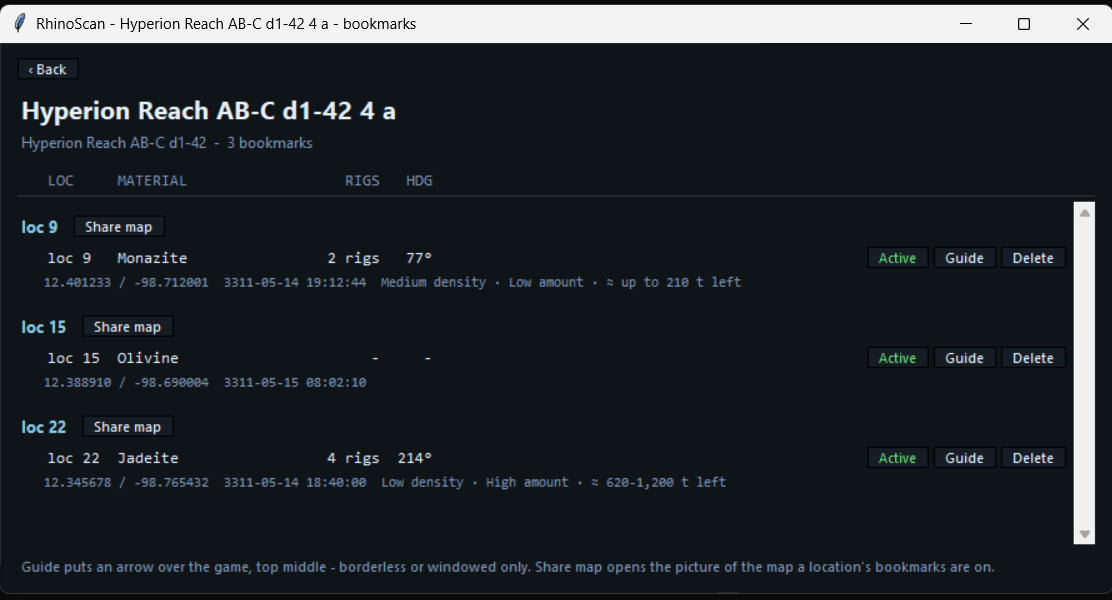
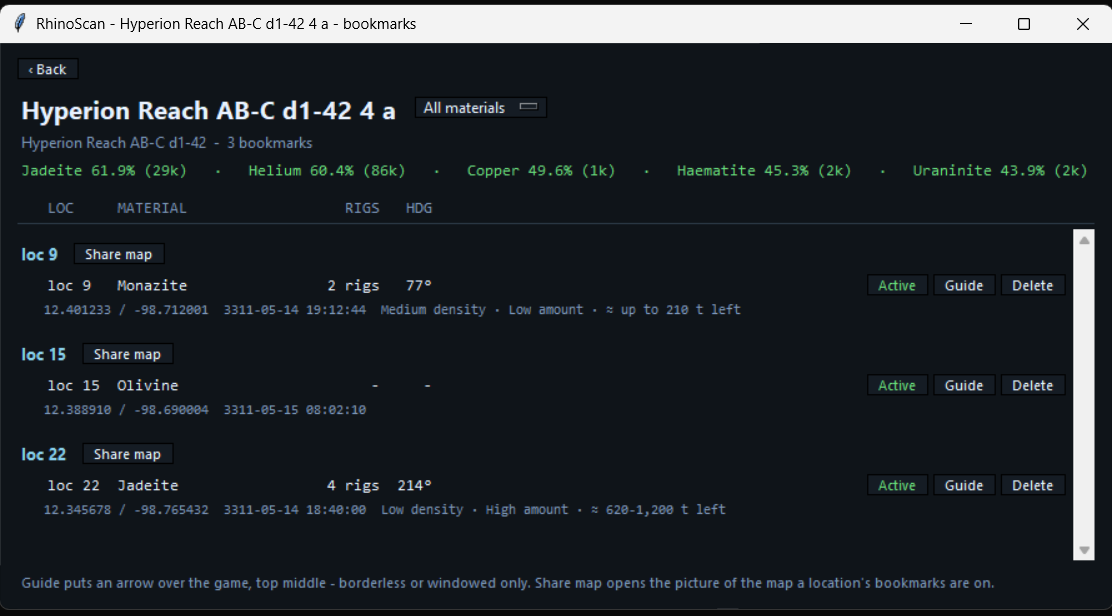
RhinoScan opens on the body under the ship; top 5 materials and a material filter. 4.1.9
Status.json latitude/longitude name the body in SRV, landed or orbital cruise; the window opens on its bookmarks, empty or not. Under the count: the ground's five likeliest materials with rate and median price. Beside the name: a filter over the materials bookmarked there. Back returns to the list and a material change keeps it there. README and screenshots updated.

Claude-Session: https://claude.ai/code/session_01LfysB5h4sj8dJSz119tMS1

diff --git a/rs_ui/scan.py b/rs_ui/scan.py
@@ -45,13 +45,17 @@ WARN = palette.WARN
 _window = None           # only ever one, so the button cannot bury the panel
 _scan = None             # what show() was last given, so Back can rebuild
 _body = None             # the bookmark view's own arguments, for the same reason
+_here = None             # the body Status.json put us on or over when the window opened
+_filter = {}             # body name -> the material its bookmarks are filtered to
+ALL = "All materials"
+TOP_HERE = 5             # materials listed under a body's bookmark count
 
 
 def is_open():
     return _window is not None and bool(_window.winfo_exists())
 
 
-def show(parent, register, sheet, focus=None, variable=None, materials=()):
+def show(parent, register, sheet, focus=None, variable=None, materials=(), here=None):
     """Open the window, or raise the one already open.
 
     `focus` is one material. Given one, only the grounds that have ever
@@ -59,13 +63,17 @@ def show(parent, register, sheet, focus=None, variable=None, materials=()):
     - the question has changed from "what is here" to "where is the jadeite",
     and a ground that answers it at 4% still answers it.
 
+    `here` is the body name when Status.json has us on or over one - in the
+    SRV, landed, or in orbital cruise. Then the window opens on that body's
+    bookmarks, whether it has any yet or not; Back goes to the body list.
+
     `variable` is the panel's own material StringVar, not a copy. The picker
     under the system name writes to it, so choosing here is the same act as
     choosing down in the panel and the two can never disagree. Watching that
     variable is the panel's job - one watcher, added once, rather than another
     one on every open.
     """
-    global _window, _scan
+    global _window, _scan, _here
 
     if _window is not None and _window.winfo_exists():
         _window.destroy()
@@ -78,8 +86,21 @@ def show(parent, register, sheet, focus=None, variable=None, materials=()):
     # behind it is the one thing the stack cannot be asked about afterwards.
     _window.bind("<Destroy>", _log_destroy, add="+")
     _scan = (register, sheet, focus, variable, materials)
-    _scan_view(_window)
+    _here = here
+    if here and register.system:
+        _bookmarks_view(_window, register.system, here,
+                        cards.by_body(register.system).get(here, []))
+    else:
+        _scan_view(_window)
     return _window
+
+
+def on_body_here():
+    """Whether the open window is showing the bookmarks of the body it opened
+    on. The panel reopens the window when its material changes, and a window
+    the commander has taken Back to the body list must come back as the list."""
+    return (_window is not None and _window.winfo_exists()
+            and _body is not None and _body[2] == _here)
 
 
 def _log_destroy(event):
@@ -99,8 +120,10 @@ def _scan_view(window):
     list kept alive behind the bookmarks is a list that missed every scan that
     landed while it was behind them.
     """
+    global _body
     register, sheet, focus, variable, materials = _scan
     logger.debug("scan: building the body list")
+    _body = None            # the overlay's refresh must not draw bookmarks over the list
     _clear(window)
     window.title(f"RhinoScan - {register.system or 'unknown system'}"
                  + (f" - {focus}" if focus else ""))
@@ -528,16 +551,35 @@ def _bookmarks_view(window, system, body, records):
     back.pack(fill="x", pady=(0, 6))
     _button(back, "‹ Back", lambda: _scan_view(window)).pack(side="left")
 
-    tk.Label(outer, text=body, bg=BG, fg=FG, anchor="w",
-             font=("Segoe UI", 15, "bold")).pack(fill="x")
+    # The body, and beside it the material its bookmarks are narrowed to. Only
+    # materials that have a bookmark here are offered: a filter that can come
+    # up empty is a filter that looks broken.
+    title = tk.Frame(outer, bg=BG)
+    title.pack(fill="x")
+    tk.Label(title, text=body, bg=BG, fg=FG, anchor="w",
+             font=("Segoe UI", 15, "bold")).pack(side="left")
+    marked = sorted({r.get("commodity") for r in records if r.get("commodity")})
+    chosen = _filter.get(body, ALL)
+    if chosen != ALL and chosen not in marked:
+        chosen = _filter[body] = ALL
+    if len(marked) > 1:
+        _material_filter(title, window, system, body, records, marked, chosen)
+    shown = [r for r in records if chosen == ALL or r.get("commodity") == chosen]
+
     count = len(records)
-    tk.Label(outer, text=f"{system or ''}  -  {count} bookmark{'' if count == 1 else 's'}",
-             bg=BG, fg=DIM, anchor="w", font=("Segoe UI", 9)).pack(fill="x", pady=(0, 10))
+    counted = (f"{len(shown)} of {count} bookmarks" if len(shown) != count
+               else f"{count} bookmark{'' if count == 1 else 's'}")
+    tk.Label(outer, text=f"{system or ''}  -  {counted}",
+             bg=BG, fg=DIM, anchor="w", font=("Segoe UI", 9)).pack(fill="x")
+    _top_here(outer, body)
 
     _column_header(outer)
     listing, _ = _scrollable(outer)
+    if not records:
+        tk.Label(listing, text="   no bookmarks on this body yet", bg=BG, fg=DIM, anchor="w",
+                 font=("Segoe UI", 9)).pack(fill="x", pady=(6, 0))
     maps = coverstore.maps(body)
-    for index, group in _by_location(records):
+    for index, group in _by_location(shown):
         _location_header(listing, body, index, group, maps)
         for record in cards.ordered(group):
             _bookmark_row(listing, record)
@@ -550,6 +592,61 @@ def _bookmarks_view(window, system, body, records):
     note.pack(side="top", fill="x", pady=(8, 0))
     _Wrapper(window, margin=40)(note)
     _fit(window, listing, extra=BUTTONS)
+
+
+def _material_filter(parent, window, system, body, records, marked, chosen):
+    """The dropdown beside the body name: all bookmarks, or one material's."""
+    variable = tk.StringVar(value=chosen)
+
+    def pick(value):
+        _filter[body] = value
+        # After the menu has closed: rebuilding the window destroys the menu
+        # that is still handing out this call.
+        window.after_idle(lambda: _bookmarks_view(window, system, body, records))
+
+    menu = tk.OptionMenu(parent, variable, ALL, *marked, command=pick)
+    menu.config(relief="solid", borderwidth=1, highlightthickness=0,
+                bg=PANEL, fg=FG, activebackground=PANEL, activeforeground=ACCENT,
+                anchor="w", padx=6, pady=0, font=("Segoe UI", 9))
+    menu["menu"].config(bg=PANEL, fg=FG, activebackground=ACCENT, activeforeground=BG,
+                        borderwidth=1, activeborderwidth=0, tearoff=False,
+                        font=("Segoe UI", 9))
+    menu.pack(side="left", padx=(12, 0))
+
+
+def _top_here(parent, body):
+    """The five likeliest materials on this body's ground, each with its median
+    price, under the bookmark count. From the mining sheet, so a body the
+    journal has not described yet has no ground and gets a line saying so."""
+    register, sheet = (_scan[0], _scan[1]) if _scan else (None, None)
+    ground = None
+    if register is not None:
+        for known in register.bodies():
+            if known.get("name") == body:
+                ground = known.get("ground")
+                break
+    row = tk.Frame(parent, bg=BG)
+    row.pack(fill="x", pady=(2, 10))
+    if ground is None or sheet is None:
+        tk.Label(row, text="no body type yet - FSS or scan the body for its likely materials",
+                 bg=BG, fg=DIM, anchor="w", font=("Segoe UI", 9)).pack(side="left")
+        return
+    rows = sheet.materials(ground, limit=TOP_HERE)
+    if not rows:
+        tk.Label(row, text=f"{grounds.label(ground)}: nothing measured on this ground yet",
+                 bg=BG, fg=WARN, anchor="w", font=("Segoe UI", 9)).pack(side="left")
+        return
+    text = "   ·   ".join(f"{r['material']} {r['pct']}% {_price(r.get('median'))}" for r in rows)
+    tk.Label(row, text=text, bg=BG, fg=GOOD, anchor="w", font=("Consolas", 9)).pack(side="left")
+
+
+def _price(credits):
+    """208k, 1.2M, or 'no price' - the median a market pays per tonne."""
+    if not credits:
+        return "(no price)"
+    if credits >= 1_000_000:
+        return f"({credits / 1_000_000:.1f}M)"
+    return f"({round(credits / 1000):,}k)"
 
 
 def _by_location(records):
@@ -703,7 +800,9 @@ def _reload():
         return
     window, system, body, _records = _body
     records = cards.by_body(system).get(body, [])
-    if records:
+    # The body you are on stays open with nothing on it: its likely materials
+    # are still worth reading.
+    if records or body == _here:
         _bookmarks_view(window, system, body, records)
     else:
         _scan_view(window)

diff --git a/rs_ui/main.py b/rs_ui/main.py
@@ -224,8 +224,9 @@ def open_cards():
         _set_status(f"cannot open {spotcard.CARDS_ROOT}: {err}")
 
 
-def open_scan():
-    """The RhinoScan window for the system the journal last named.
+def open_scan(at_body=True):
+    """The RhinoScan window for the system the journal last named, opened on
+    the bookmarks of the body under the ship when there is one and `at_body`.
 
     The window gets the panel's own material variable, not a copy of its
     value: the picker it draws under the system name writes straight back
@@ -237,7 +238,8 @@ def open_scan():
     try:
         scan.show(_frame.winfo_toplevel(), _register, _sheet, _focus(),
                   variable=_material,
-                  materials=(ALL_MATERIALS,) + tuple(spotmark.MATERIALS))
+                  materials=(ALL_MATERIALS,) + tuple(spotmark.MATERIALS),
+                  here=spotmark.body_here(spotmark.read_status()) if at_body else None)
     except Exception as err:                       # a broken window must not
         logger.exception("RhinoScan failed")       # take the card flow with it
         _set_status(f"no scan window: {err}")
@@ -258,7 +260,8 @@ def _on_material_changed(*_):
     logger.debug(f"material changed to {_material.get()!r}, "
                  f"scan open={open_now} - {'reopening' if open_now else 'nothing to do'}")
     if open_now:
-        _frame.after_idle(open_scan)
+        at_body = scan.on_body_here()
+        _frame.after_idle(lambda: open_scan(at_body))
 
 
 # How often Status.json is read to see whether Bookmark has anything to mark.

diff --git a/rs_core/spotmark.py b/rs_core/spotmark.py
@@ -89,6 +89,18 @@ def mark(status, system=None, commander=None, marked_at=None):
     }
 
 
+def body_here(status):
+    """The body Status.json has us on or over, or None.
+
+    Latitude and longitude are only in Status.json near a body - orbital
+    cruise, glide, landed, in the SRV - so their presence is the test, and the
+    body is whatever it names. Deep space and supercruise give None.
+    """
+    if status.get("Latitude") is None or status.get("Longitude") is None:
+        return None
+    return status.get("BodyName") or None
+
+
 def on_surface(spot):
     """A mark without coordinates is not a place anyone can fly back to."""
     return spot.get("latitude") is not None and spot.get("longitude") is not None

diff --git a/rs_tests/test_spotmark.py b/rs_tests/test_spotmark.py
@@ -134,3 +134,15 @@ class TestOnGround:
 
     def test_an_empty_status(self):
         assert spotmark.on_ground({}) is False
+
+
+class TestBodyHere:
+    def test_over_a_body(self):
+        status = {"BodyName": "Andel 1 a", "Latitude": 12.3, "Longitude": -45.6}
+        assert spotmark.body_here(status) == "Andel 1 a"
+
+    def test_supercruise_names_no_body(self):
+        assert spotmark.body_here({"BodyName": "Andel 1 a"}) is None
+
+    def test_empty_status(self):
+        assert spotmark.body_here({}) is None

diff --git a/rs_core/update.py b/rs_core/update.py
@@ -27,7 +27,7 @@ try:
 except ImportError:         # a bare interpreter without it
     requests = None
 
-VERSION = "4.1.8"
+VERSION = "4.1.9"
 
 # For testing the update path without publishing a throwaway release: set
 # RHINOSPOTTER_VERSION to something older and the running plugin will see the

diff --git a/README.md b/README.md
@@ -27,6 +27,10 @@ locations are mapped - click either and the window lists them.*
 
 ### The bookmarks of one body
 
+**On or over a body** - in the SRV, landed, or in orbital cruise - **RhinoScan
+opens straight on that body's bookmarks**, even before it has any. **Back**
+goes to the body list.
+
 Clicking `3 bookmarks` puts the list in the same window: one row per bookmark
 with the location, material, rigs, heading, coordinates and when it was
 marked, grouped by location. **Most rigs first** within a location - of the
@@ -37,6 +41,13 @@ returns to the body list.
   <img src="docs/bookmarks.png" width="620"
        alt="The bookmarks of one body, grouped by location, each with Share map; rows with Guide and Delete">
 </p>
+
+Under the bookmark count: the **five likeliest materials** for that kind of
+body, each with its rate and median price per tonne, from the mining sheet. A
+body the journal has not described yet says so instead.
+
+The dropdown beside the body name narrows the list to **one material's
+bookmarks**; it offers only materials this body has bookmarks for.
 
 **Share map**, beside each location, opens the picture of the map that
 location's bookmarks were made on - see [Sharing a map](#sharing-a-map).

diff --git a/CHANGELOG.md b/CHANGELOG.md
@@ -1,5 +1,17 @@
 # Changelog
 
+## 4.1.9
+
+**Added**
+
+- On or over a body - SRV, landed or orbital cruise - RhinoScan opens on that
+  body's bookmarks, even with none yet. Back goes to the body list, and stays
+  there when the material is changed.
+- The five likeliest materials for the body's ground, with rate and median
+  price, under the bookmark count.
+- A material filter beside the body name, listing only materials the body has
+  bookmarks for.
+
 ## 4.1.8
 
 **Changed**
